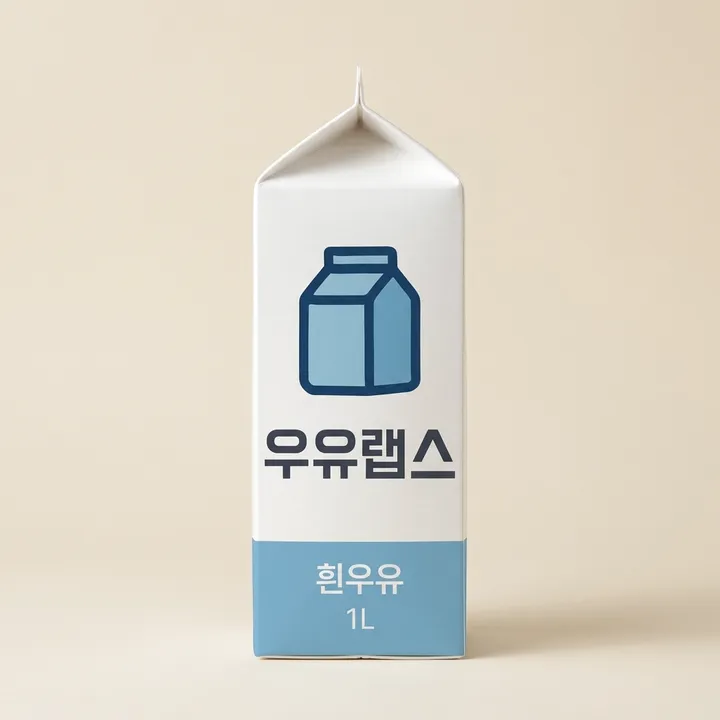
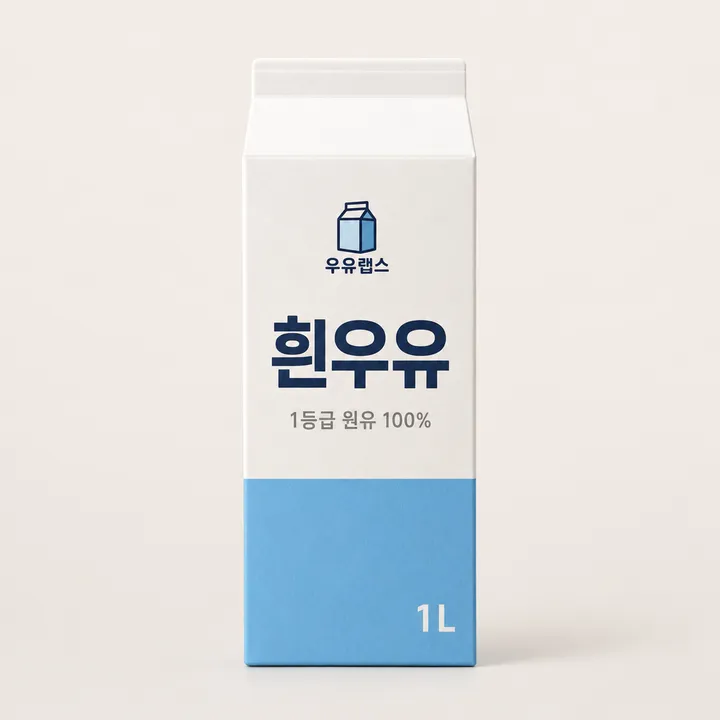
feat(web): product photos remade with gpt-image-2 — small brand mark, product name first
로고가 포장을 가득 채워 브랜드만 크고 무슨 상품인지 안 읽혔다(사용자: "로고가 너무 커 · gemini 말고 gpt-image-2
쓸 수는 없냐").

모델을 gpt-image-2 로 바꿨다. 이 모델은 참조 이미지를 받지 않아 표식을 말로 설명해야 하지만, 한국어 글자와 판면
지시를 정확히 따른다 — 여섯 장 모두 브랜드·제품명·부제·용량이 한 번에 맞게 나왔다. 판면을 실제 우유갑처럼 잡았다:
표식은 포장 너비의 5분의 1 안쪽, 가장 큰 글자는 제품명, 그 아래 한 줄(1등급 원유 100% · 지방 2% · 무가당),
아래 띠에 용량.

인쇄가 포장 면의 각도를 따라간다 — 앞선 사진들이 어색했던 원인이 사라졌다. 배경도 따뜻한 베이지에서 밝은
회백색으로 바뀌어 하늘색 화면과 덜 다툰다(사진 바탕 토큰도 맞췄다). 500ml 둘은 1L 보다 실제로 낮다.

대신 표식은 **우유랩스 로고를 닮게 그린 것이지 로고 파일 그대로가 아니다** — README 에 그 사실과, 새 상품을
더할 때 지킬 셋(같은 배경·인쇄가 면을 따를 것·표식은 작게)을 적었다.

diff --git a/src/app/globals.css b/src/app/globals.css
@@ -35,7 +35,7 @@
   /* 면 */
   --color-paper: oklch(0.98 0.005 240);
   --color-surface: #ffffff;
-  --color-photo: #ebe1d1; /* 상품 사진의 배경과 같은 색 — 사진이 상자 없이 앉는다 */
+  --color-photo: #f1ebe5; /* 상품 사진의 배경과 같은 색 — 사진이 상자 없이 앉는다 */
   --color-line: oklch(0.91 0.02 230);
 
   /* 상태 — 색만으로 말하지 않는다(CON-5). 언제나 낱말이 함께 선다 */

diff --git a/README.md b/README.md
@@ -48,7 +48,7 @@ Next.js 16 · React 19 · Tailwind 4. 데이터베이스가 없습니다 — 재
 - **360px 폭에서도 가로 스크롤 없이 주문이 끝납니다.**
 - **동작하지 않는 장식은 두지 않습니다.** 검색·로그인·찜은 없습니다 — 이 가게에 없는 기능입니다.
 
-상품 사진과 배너는 이미지 모델로 만든 것입니다(실제 상품이 아닙니다). 포장의 우유랩스 로고와 제품명은 로고 파일을 참조로 주고 사진 자체를 생성한 것입니다. **상품은 모두 정면에서 찍습니다** — 비스듬히 놓으면 포장의 인쇄만 정면으로 그려져 스티커처럼 떠 보입니다. 새 상품을 더할 때도 같은 각도·같은 배경으로 만듭니다.
+상품 사진과 배너는 이미지 모델로 만든 것입니다(실제 상품이 아닙니다). 포장의 그림과 글자도 사진과 함께 생성한 것이라 **표식은 우유랩스 로고를 닮게 그린 것이지 로고 파일 그대로가 아닙니다** — 로고 파일을 사진 위에 합성해 보았더니 조명과 종이 결이 맞지 않아 스티커처럼 떠 보였습니다. 새 상품을 더할 때 지킬 것은 셋입니다: 같은 배경과 조명, 인쇄가 포장 면의 각도를 따라갈 것, **표식은 작게**(포장 너비의 5분의 1 안쪽) 두고 제품명을 가장 크게 둘 것.
 
 ## 우유팩 튜토리얼
 
